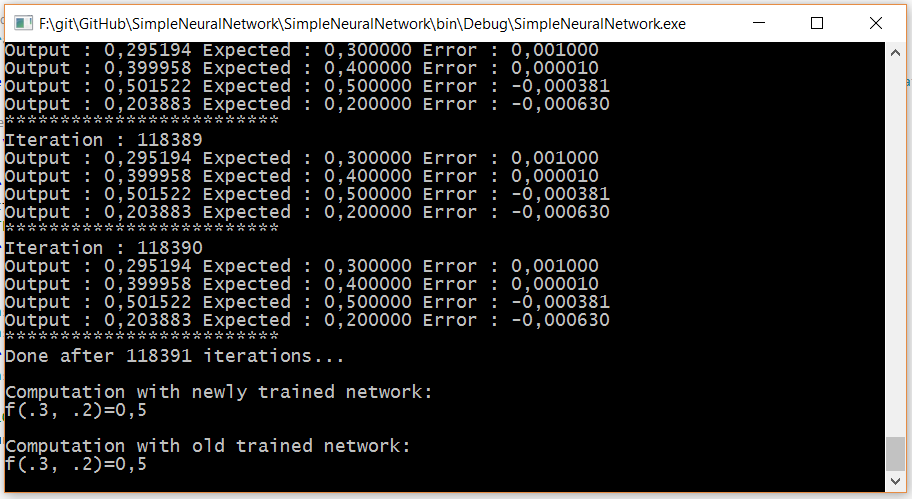
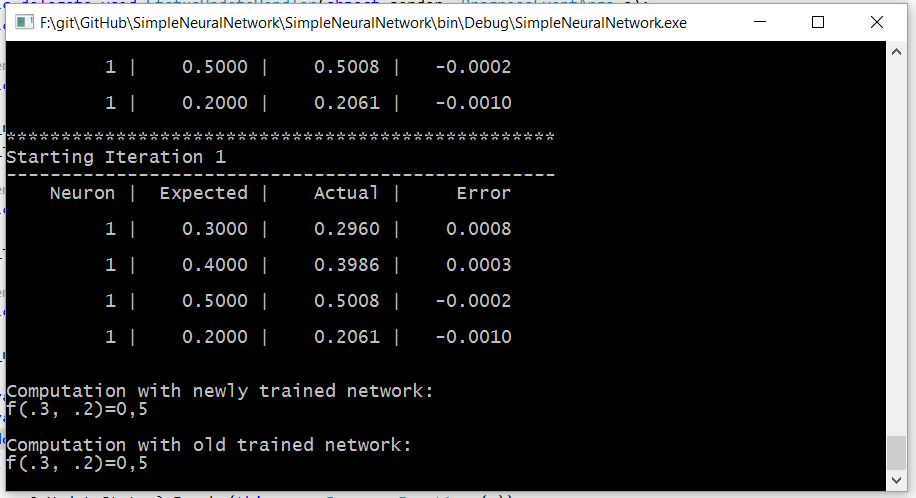
Abstract trainer

diff --git a/SimpleNeuralNetwork/Trainers/AbstactTrainer.cs b/SimpleNeuralNetwork/Trainers/AbstactTrainer.cs
@@ -1,0 +1,101 @@
+using SimpleNeuralNetwork.AI;
+using SimpleNeuralNetwork.AI.Models;
+using SimpleNeuralNetwork.EventArgumens;
+using SimpleNeuralNetwork.Interfaces;
+using System;
+using System.Collections.Generic;
+using System.Globalization;
+using System.Linq;
+using System.Text;
+using System.Threading.Tasks;
+
+namespace SimpleNeuralNetwork.Trainers
+{
+    public abstract class AbstactTrainer
+    {
+        NeuralNetworkCompute _neuralNetworkCompute;
+        NeuralNetwork _nueralNetwork = new NeuralNetwork();
+        IDataHandle _filehandle;
+
+        protected virtual double[][] inputData { get; } = new double[][] { new double[] { } };
+        protected virtual double[][] resultsData { get; } = new double[][] { new double[] { } };
+
+
+        public delegate void StatusUpdateHandler(object sender, ProgressEventArgs e);
+        public event StatusUpdateHandler OnUpdateStatus;
+
+        public AbstactTrainer(NeuralNetworkCompute neuralNetworkCompute, IDataHandle filehandle)
+        {
+            _neuralNetworkCompute = neuralNetworkCompute;
+            _filehandle = filehandle;
+        }
+        public void Save(string filename)
+        {
+            _filehandle.Save<NeuralNetwork>(filename, _nueralNetwork);
+        }
+        public void Train(int hiddenLayerNeurons, double acceptedError)
+        {
+            _neuralNetworkCompute.CreateLayers(inputData[0].Length, hiddenLayerNeurons, resultsData[0].Length);
+
+            var j = 0;
+            var leastError = 1d;
+            do
+            {
+                var s = GetMatrixHeaders(j + 1);
+                OnUpdateStatus?.Invoke(this, new ProgressEventArgs(s));
+
+                var innerLeastError = 0d;
+                for (int i = 0; i < inputData.Length; i++)
+                {
+                    _nueralNetwork = _neuralNetworkCompute.Train(inputData[i], resultsData[i]);
+
+                    var status = GetMatrix(_nueralNetwork.OutputNeurons, resultsData[i]);
+                    OnUpdateStatus?.Invoke(this, new ProgressEventArgs(status));
+
+                    innerLeastError = GetMaxError(_nueralNetwork.OutputNeurons);
+                }
+                leastError = Math.Min(leastError, innerLeastError);
+
+            } while (leastError > acceptedError);
+
+        }
+
+        private double GetMaxError(List<Neuron> neurons)
+        {
+            var maxError = 0d;
+            foreach (var neuron in neurons)
+            {
+                maxError = Math.Max(maxError, Math.Abs(neuron.Error));
+            }
+            return maxError;
+        }
+
+        private string GetMatrixHeaders(int iteration)
+        {
+            var s = new StringBuilder();
+            s.AppendLine(new String('*', 50));
+            s.AppendLine("Starting Iteration " + iteration);
+            s.AppendLine(new String('-', 50));
+            s.AppendLine(String.Format("{0,10} |{1,10} |{2,10} |{3,10}", "Neuron", "Expected", "Actual", "Error"));
+            return s.ToString();
+        }
+        private string GetMatrix(List<Neuron> neurons, double[] expectedVaues)
+        {
+            var s = new StringBuilder();
+            var i = 0;
+            foreach (var neuron in neurons)
+            {
+                s.Append(
+                String.Format("{0,10} |{1,10} |{2,10} |{3,10}",
+                               (i + 1),
+                               expectedVaues[i++].ToString("0.0000", CultureInfo.InvariantCulture),
+                               neuron.Value.ToString("0.0000", CultureInfo.InvariantCulture),
+                               neuron.Error.ToString("0.0000", CultureInfo.InvariantCulture)
+                            )
+                );
+                s.Append(Environment.NewLine);
+            }
+            return s.ToString();
+        }
+    }
+}

diff --git a/SimpleNeuralNetwork/Trainers/AdditionTrainer.cs b/SimpleNeuralNetwork/Trainers/AdditionTrainer.cs
@@ -10,14 +10,10 @@ using System.Threading.Tasks;
 
 namespace SimpleNeuralNetwork.Trainers
 {
-    public class AdditionTrainer : ITrainer
+    public class AdditionTrainer : AbstactTrainer, ITrainer
     {
-        NeuralNetworkCompute _neuralNetworkCompute;
-        NeuralNetwork _nueralNetwork = new NeuralNetwork();
-        IDataHandle _filehandle;
-
         //Input data, defines variables inserted into the system, second dimension defines number of input neurons, for this case 2
-        private double[][] inputData = new double[][] {
+        protected override double[][] inputData { get; } = new double[][] {
                                 new double[] { .1, .2 },
                                 new double[] { .3, .1 },
                                 new double[] { .1, .4 },
@@ -25,55 +21,16 @@ namespace SimpleNeuralNetwork.Trainers
                             };
 
         //Expected output data defines expected result, second dimension defines number of output neurons, for this case 1
-        private double[][] resultsData = new double[][] {
+        protected override double[][] resultsData { get; } = new double[][] {
                                    new double[] { .3 },
                                    new double[] { .4 },
                                    new double[] { .5 },
                                    new double[] { .2 },
                                };
 
-        public delegate void StatusUpdateHandler(object sender, ProgressEventArgs e);
-        public event StatusUpdateHandler OnUpdateStatus;
-
-        public AdditionTrainer(NeuralNetworkCompute neuralNetworkCompute, IDataHandle filehandle)
+        public AdditionTrainer(NeuralNetworkCompute neuralNetworkCompute, IDataHandle filehandle) : base(neuralNetworkCompute, filehandle)
         {
-            _neuralNetworkCompute = neuralNetworkCompute;
-            _filehandle = filehandle;
-        }
-        public void Save(string filename)
-        {
-            _filehandle.Save<NeuralNetwork>(filename, _nueralNetwork);
-        }
-        public void Train(int hiddenLayerNeurons, double acceptedError)
-        {
-            //Create a neuron network with 2 input neurons, 5 hidden neurons and 1 output neuron
-            _neuralNetworkCompute.CreateLayers(inputData[0].Length, hiddenLayerNeurons, resultsData[0].Length);
-            //Train
-            var j = 0;
-            var leastError = 1d;
-            do//could be smaller but training data are few and makes no point...
-            {
-                OnUpdateStatus?.Invoke(this, new ProgressEventArgs("Iteration : " + (j++)));
 
-                var innerLeastError = 0d;
-                for (int i = 0; i < inputData.Length; i++)
-                {
-                    _nueralNetwork = _neuralNetworkCompute.Train(inputData[i], resultsData[i]);
-
-                    var status = "Output : " + _nueralNetwork.OutputNeurons[0].Value.ToString("0.000000") + " " +
-                                 "Expected : " + resultsData[i][0].ToString("0.000000") + " " +
-                                 "Error : " + _nueralNetwork.OutputNeurons[0].Error.ToString("0.000000") + " ";
-                    //ouput has only one neuron
-                    OnUpdateStatus?.Invoke(this, new ProgressEventArgs(status));
-
-                    innerLeastError = Math.Max(innerLeastError, Math.Abs(_nueralNetwork.OutputNeurons[0].Error));
-                }
-                leastError = Math.Min(leastError, innerLeastError);
-
-                OnUpdateStatus?.Invoke(this, new ProgressEventArgs("*************************"));
-            } while (leastError > acceptedError);
-
-            OnUpdateStatus?.Invoke(this, new ProgressEventArgs("Done after " + j + " iterations..."));
         }
     }
 }
